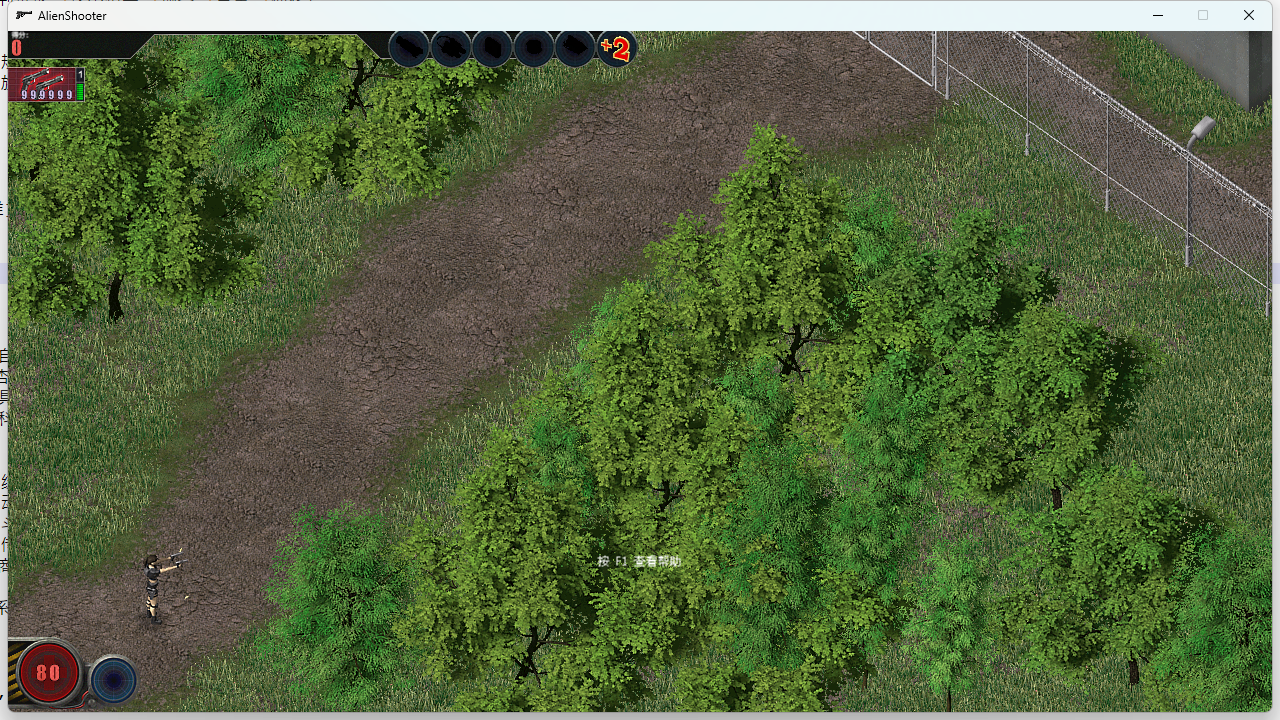
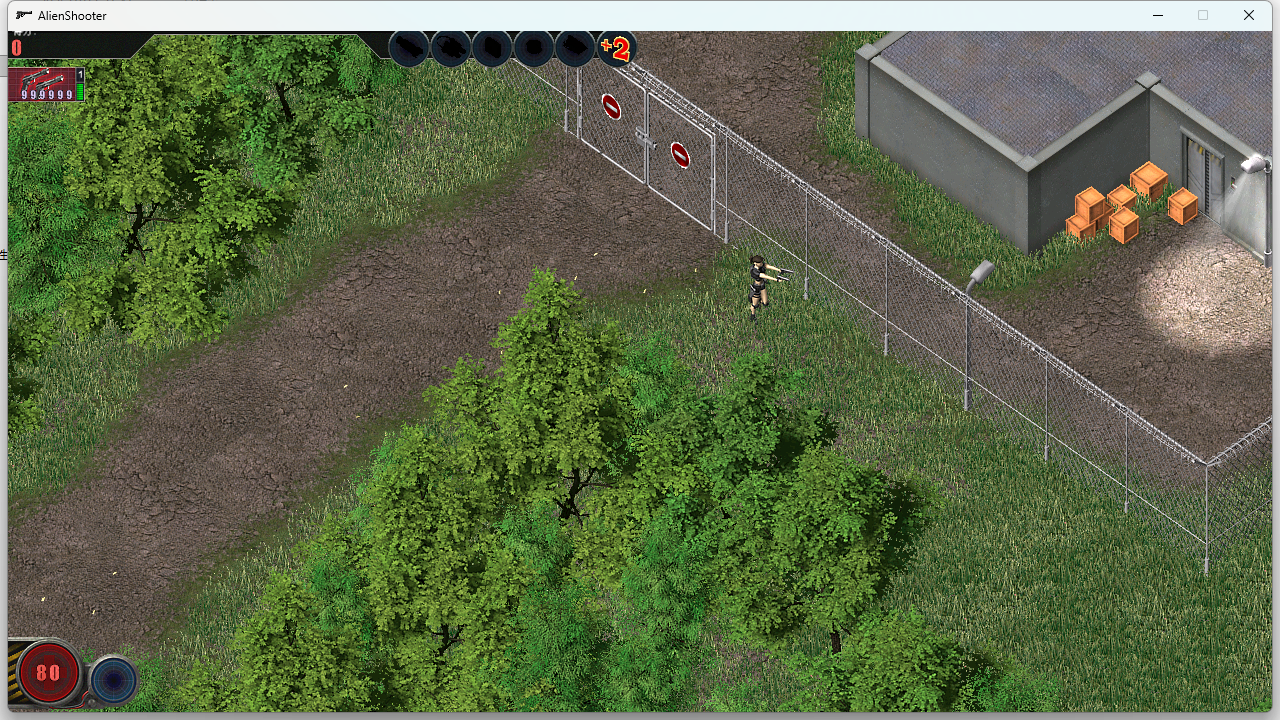
修复：游戏内文字随相机移动 + 新增 [layout] 位置微调
现象：游戏内的中文（得分、按 F1 查看帮助…）会跟着鼠标/人物一起动，
      菜单里的却不动。

根因：坐标变换矩阵抓得太懒。原来"同一设备 1 秒内不重复抓"，
      相机一动，套到当前坐标上的就是 1 秒前（甚至另一条渲染通路）的矩阵，
      于是文本跟着相机漂移；菜单相机不动所以看不出来。
      实测对照（工具 drive_game3.py 把鼠标推到四个方向各截一张）：
      世界滚动了，但改成实时抓取后「按 F1 查看帮助」的屏幕位置完全不变。

修复
- CjkUpdateMapping 的缓存窗口 1000ms -> 2ms（= 跨帧必抓、同帧不重复抓）。
  GetTransform 很便宜，一帧最多 3 次 × 几个文本块，开销可忽略。
- 诊断降噪：chs_mapdiag.txt 改为只在矩阵平移项变化时记一行，
  不再逐项 LogPrintf + FlushFileBuffers（那会把游戏拖卡）。

新增 [layout] 配置（update\chs.ini）
- xoff / yoff：整体把中文往右/下挪 N 像素（负数=左/上），任何字号都生效
- mode：0=自动 1=强制屏幕坐标（不套矩阵）2=强制套矩阵
  某界面整体错位时可以用它现场切换定位
- ini 里 quality 恢复为 4（曾被改成 0 = 关抗锯齿，小字号发虚且更慢）

工具：新增 tools/drive_game3.py —— 进关卡后把鼠标推到四个方向各截一张，
      专门用来复现"文字跟着相机跑"这类只在移动中才看得见的问题。

实机验证（tools_out/verify_{loadout,highscore,ingame}.png）：
装备/战役/最高分/游戏内界面中文全部正常，无花屏、无缺字。

diff --git a/AlienShooterCHS/hook.cpp b/AlienShooterCHS/hook.cpp
@@ -2343,6 +2343,12 @@ static void CjkProbeTex(void* tex, TexLockRect_t* outLock, TexUnlockRect_t* outU
 static char  g_cfgFontFile[MAX_PATH] = "SourceHanSansHWSC-VF.ttf";
 static char  g_cfgFontFace[128]      = "";
 static double g_cfgScaleMul          = 0.0;   // 0 = 按字体自身度量自动计算
+// ---- 布局微调（[layout] 段）----
+//   xoff/yoff：整体把字往右/下挪多少像素（负数=左/上）。任何字号都生效。
+//   mode：0=自动 1=屏幕坐标(不加矩阵) 2=矩阵(WVP)
+static int    g_cfgXoff              = 0;
+static int    g_cfgYoff              = 0;
+static int    g_cfgMapMode           = 0;
 static int   g_cfgQuality            = 4;              // ANTIALIASED_QUALITY
 static int   g_cfgLoaded             = 0;
 static int   g_cfgTtfOk              = 0;
@@ -2513,6 +2519,14 @@ static void CjkLoadFontConfig(void)
         GetPrivateProfileStringA("font", "file",  "SourceHanSansHWSC-VF.ttf",
                                  g_cfgFontFile, sizeof(g_cfgFontFile), ini);
         GetPrivateProfileStringA("font", "face",  "", g_cfgFontFace, sizeof(g_cfgFontFace), ini);
+        g_cfgXoff    = (int)GetPrivateProfileIntA("layout", "xoff", 0, ini);
+        g_cfgYoff    = (int)GetPrivateProfileIntA("layout", "yoff", 0, ini);
+        g_cfgMapMode = (int)GetPrivateProfileIntA("layout", "mode", 0, ini);
+        if (g_cfgXoff < -4096) g_cfgXoff = -4096;
+        if (g_cfgXoff >  4096) g_cfgXoff =  4096;
+        if (g_cfgYoff < -4096) g_cfgYoff = -4096;
+        if (g_cfgYoff >  4096) g_cfgYoff =  4096;
+        if (g_cfgMapMode < 0 || g_cfgMapMode > 2) g_cfgMapMode = 0;
         {
             char sb[32];
             GetPrivateProfileStringA("font", "scale", "0", sb, sizeof(sb), ini);
@@ -2534,6 +2548,8 @@ static void CjkLoadFontConfig(void)
     LogPrintf("[font] ini=%s (%s) file=\"%s\" face=\"%s\" quality=%d\r\n",
               ini, iniExists ? "found" : "MISSING, using defaults",
               g_cfgFontFile, g_cfgFontFace, g_cfgQuality);
+    LogPrintf("[layout] xoff=%d yoff=%d mode=%d\r\n",
+              g_cfgXoff, g_cfgYoff, g_cfgMapMode);
 
     // ---- 1) 私有加载 ttf ----
     char full[MAX_PATH]; char dir[MAX_PATH];
@@ -3287,12 +3303,36 @@ static void MatMul(float* o, const float* a, const float* b)
         }
 }
 
-static void CjkUpdateMapping(void* dev)
+static float g_liveConstX = 0.0f, g_liveConstY = 0.0f;   // 诊断：实时矩阵平移项
+static float g_liveScaleX = 0.0f, g_liveScaleY = 0.0f;
+static void CjkUpdateMappingEx(void* dev, int force);
+static void CjkUpdateMapping(void* dev) { CjkUpdateMappingEx(dev, 0); }
+// ---- 坐标映射诊断（update\chs_mapdiag.txt）----
+//   作用：实时重抓矩阵（不走 1 秒缓存）并逐项打印
+//   `[mapdiag] live const/scale | logic -> screen`，用来判断"游戏内字跟着相机动"
+//   到底是**矩阵抓错了**还是**逻辑坐标本身在动**。
+static int   g_mapDiag     = 0;
+static int   g_mapDiagChk  = 0;
+static int   g_mapDiagN    = 0;
+static float g_mapDiagLastX = 9999.0f, g_mapDiagLastY = 9999.0f;
+
+static void CjkUpdateMappingEx(void* dev, int force)
 {
     if (!dev) return;
-    if (g_mapMode && g_mapDev == dev) {
-        unsigned long now = GetTickCount();
-        if ((unsigned long)(now - g_mapTick) < 1000u) return;   // 距上次未满 1 秒，复用
+    if (!force) {
+        // ★★★ 缓存窗口从 1000ms 改到 **2ms**（第 23 轮实测结论）：
+        //   实测游戏内 HUD 文本会随相机/鼠标移动，而菜单不动 —— 根因就是原来
+        //   「1 秒才重抓一次变换」：相机一移动，抓到的矩阵就是 1 秒前那个（甚至
+        //   是另一条渲染通路的矩阵），套到当前坐标上 ⇒ 文本跟着相机跑。
+        //   改成 2ms：同一帧内不会重复抓（一帧 16ms），跨帧必然重抓 ⇒ 永远是最新的。
+        //   GetTransform 本身很便宜，一帧最多 3 次 × 几个文本块，开销可忽略。
+        if (g_mapMode && g_mapDev == dev) {
+            unsigned long now = GetTickCount();
+            if ((unsigned long)(now - g_mapTick) < 2u) return;
+        }
+    } else {
+        // 实时模式（诊断/每块重抓）只更新矩阵，不动缓存时间戳
+        g_mapTick = GetTickCount();
     }
     void** dvt = *(void***)dev;
     // 0x1B0 = 108*4，覆盖本文件用到的最大槽位（SetVertexShader=107）
@@ -3348,6 +3388,10 @@ static void CjkUpdateMapping(void* dev)
                 float tmp[16];
                 MatMul(tmp, W, V);
                 MatMul(g_xf, tmp, P);
+                g_liveConstX = g_xf[12];
+                g_liveConstY = g_xf[13];
+                g_liveScaleX = g_xf[0];
+                g_liveScaleY = g_xf[5];
                 g_mapMode = 2;
             }
         }
@@ -3355,22 +3399,32 @@ static void CjkUpdateMapping(void* dev)
     if (!g_mapMode) g_mapMode = 1;
     g_mapDev  = dev;
     g_mapTick = GetTickCount();
+    // 注意：g_mapTick 只在真正抓取时更新（2ms 节流），别在这里无条件重置，
+    //       否则节流失效、每块都抓。
 }
 
 static void CjkMap(float lx, float ly, int* sx, int* sy)
 {
+    // ini [layout] mode 覆盖：1=强制屏幕坐标（不加矩阵）2=强制矩阵
+    int useMode = g_cfgMapMode ? g_cfgMapMode : g_mapMode;
+    if (useMode == 2 && g_cfgMapMode != 2) useMode = g_mapMode;
+    if (useMode == 1) {   // 屏幕坐标：不套矩阵
+        *sx = (int)(lx + (float)g_vpW * 0.5f + (float)g_vpX + 0.5f) + g_cfgXoff;
+        *sy = (int)(ly + (float)g_vpH * 0.5f + (float)g_vpY + 0.5f) + g_cfgYoff;
+        return;
+    }
     if (g_mapMode == 2) {
         float cx = g_xf[0] * lx + g_xf[4] * ly + g_xf[12];
         float cy = g_xf[1] * lx + g_xf[5] * ly + g_xf[13];
         float cw = g_xf[3] * lx + g_xf[7] * ly + g_xf[15];
         if (cw == 0.0f) cw = 1.0f;
         float nx = cx / cw, ny = cy / cw;
-        *sx = (int)(( nx * 0.5f + 0.5f) * (float)g_vpW + (float)g_vpX + 0.5f);
-        *sy = (int)((-ny * 0.5f + 0.5f) * (float)g_vpH + (float)g_vpY + 0.5f);
+        *sx = (int)(( nx * 0.5f + 0.5f) * (float)g_vpW + (float)g_vpX + 0.5f) + g_cfgXoff;
+        *sy = (int)((-ny * 0.5f + 0.5f) * (float)g_vpH + (float)g_vpY + 0.5f) + g_cfgYoff;
         return;
     }
-    *sx = (int)(lx + (float)g_vpW * 0.5f + (float)g_vpX + 0.5f);
-    *sy = (int)(ly + (float)g_vpH * 0.5f + (float)g_vpY + 0.5f);
+    *sx = (int)(lx + (float)g_vpW * 0.5f + (float)g_vpX + 0.5f) + g_cfgXoff;
+    *sy = (int)(ly + (float)g_vpH * 0.5f + (float)g_vpY + 0.5f) + g_cfgYoff;
 }
 
 static void CjkFlush()
@@ -3384,11 +3438,33 @@ static void CjkFlush()
 
     CjkUpdateMapping(dev);
 
+    if (!g_mapDiagChk) {
+        g_mapDiagChk = 1;
+        char q[MAX_PATH];
+        CjkSidePath("chs_mapdiag.txt", q, sizeof(q));
+        g_mapDiag = (GetFileAttributesA(q) != INVALID_FILE_ATTRIBUTES) ? 1 : 0;
+        LogPrintf("[mapdiag] enabled=%d\r\n", g_mapDiag);
+        FlushFileBuffers(g_log);
+    }
+
     for (long i = 0; i < n; ++i) {
         CjkItem* it = &g_q[i];
 
         int sx = it->x, sy = it->y;
         CjkMap((float)it->x, (float)it->y, &sx, &sy);
+
+        // 诊断（chs_mapdiag.txt）：只在**矩阵平移项变化**时记一行，不再逐项刷屏
+        if (g_mapDiag && ++g_mapDiagN <= 4000) {
+            if (g_liveConstX != g_mapDiagLastX || g_liveConstY != g_mapDiagLastY) {
+                g_mapDiagLastX = g_liveConstX; g_mapDiagLastY = g_liveConstY;
+                LogPrintf("[mapdiag] const changed -> c=(%.5f,%.5f) s=(%.5f,%.5f) mode=%d "
+                          "| logic=(%d,%d) -> screen=(%d,%d)\r\n",
+                          (double)g_liveConstX, (double)g_liveConstY,
+                          (double)g_liveScaleX, (double)g_liveScaleY, g_mapMode,
+                          it->x, it->y, sx, sy);
+                FlushFileBuffers(g_log);
+            }
+        }
 
         int top = sy;
         if (it->align & 8)      top -= (it->nl * it->h) / 2;   // 垂直居中

diff --git a/tools/drive_game3.py b/tools/drive_game3.py
@@ -1,0 +1,70 @@
+# -*- coding: utf-8 -*-
+"""进关卡 → 移动鼠标（=移动相机）→ 逐张截图，用来验证 HUD 是否跟着相机跑"""
+import subprocess, time, os, sys, ctypes
+from ctypes import wintypes
+from PIL import ImageGrab
+GAME = r'I:/LocalGames/AlienShooter v1.22DIC'
+OUT  = r'G:/Projects/AlienShooterCHS/tools_out'
+UPD  = os.path.join(GAME, 'update')
+u32 = ctypes.windll.user32
+tag = sys.argv[1] if len(sys.argv) > 1 else 'x'
+def wpath(n): return os.path.join(UPD, n)
+for f in os.listdir(UPD):
+    if f.startswith('chs_logall') or f.startswith('chs_mapdiag'):
+        try: os.remove(wpath(f))
+        except OSError: pass
+try: os.remove(wpath('chs_probe.log'))
+except OSError: pass
+open(wpath('chs_mapdiag.txt'), 'w').close()
+def find_game():
+    res = []
+    def cb(h, l):
+        if not u32.IsWindowVisible(h): return True
+        n = u32.GetWindowTextLengthW(h)
+        if n:
+            b = ctypes.create_unicode_buffer(n + 1)
+            u32.GetWindowTextW(h, b, n + 1)
+            if b.value == 'AlienShooter':
+                r = wintypes.RECT(); u32.GetWindowRect(h, ctypes.byref(r))
+                res.append((h, r.left, r.top, r.right, r.bottom))
+        return True
+    u32.EnumWindows(ctypes.WINFUNCTYPE(ctypes.c_bool, wintypes.HWND, wintypes.LPARAM)(cb), 0)
+    return res
+def click(h,l,tp,r,b,fx,fy):
+    u32.SetForegroundWindow(h); u32.BringWindowToTop(h); time.sleep(0.35)
+    x,y = int(l+(r-l)*fx), int(tp+(b-tp)*fy)
+    u32.SetCursorPos(x,y); time.sleep(0.25)
+    u32.mouse_event(0x0002,0,0,0,0); u32.mouse_event(0x0004,0,0,0,0); time.sleep(0.3)
+def shot(l,tp,r,b,name):
+    for _ in range(4):
+        u32.SetForegroundWindow(h_g); u32.BringWindowToTop(h_g); time.sleep(0.4)
+        im = ImageGrab.grab().crop((l,tp,r,b))
+        if sum(1 for v in im.convert('L').getdata() if v > 12) > 5000: break
+        time.sleep(0.4)
+    im.save(os.path.join(OUT,'m_%s_%s.png'%(tag,name))); print('shot',name)
+proc = subprocess.Popen([os.path.join(GAME,'AlienShooter.exe')], cwd=GAME)
+time.sleep(6)
+w = find_game(); h_g,l,tp,r,b = w[0]
+u32.ShowWindow(h_g,9); u32.SetWindowPos(h_g,-1,0,0,0,0,0x0001|0x0002); time.sleep(0.5)
+click(h_g,l,tp,r,b,0.50,0.90)
+time.sleep(2.5)
+click(h_g,l,tp,r,b,0.27,0.567)     # 新游戏
+time.sleep(3.0)
+click(h_g,l,tp,r,b,0.513,0.575)    # 战役
+time.sleep(3.0)
+u32.SetForegroundWindow(h_g); time.sleep(0.2)
+u32.keybd_event(0x0D,0,0,0); u32.keybd_event(0x0D,0,2,0)   # Enter 开始
+time.sleep(8)
+cx, cy = (l+r)//2, (tp+b)//2
+# ① 鼠标居中
+u32.SetCursorPos(cx, cy); time.sleep(2.0); shot(l,tp,r,b,'center')
+# ② 鼠标移到左边缘（相机应向左滚）
+u32.SetCursorPos(l+60, cy); time.sleep(3.0); shot(l,tp,r,b,'left')
+# ③ 鼠标移到右边缘
+u32.SetCursorPos(r-60, cy); time.sleep(3.0); shot(l,tp,r,b,'right')
+# ④ 鼠标移到底部
+u32.SetCursorPos(cx, b-40); time.sleep(3.0); shot(l,tp,r,b,'down')
+subprocess.run(['taskkill','/F','/IM','AlienShooter.exe'],capture_output=True)
+try: os.remove(wpath('chs_mapdiag.txt'))
+except OSError: pass
+print('done')
